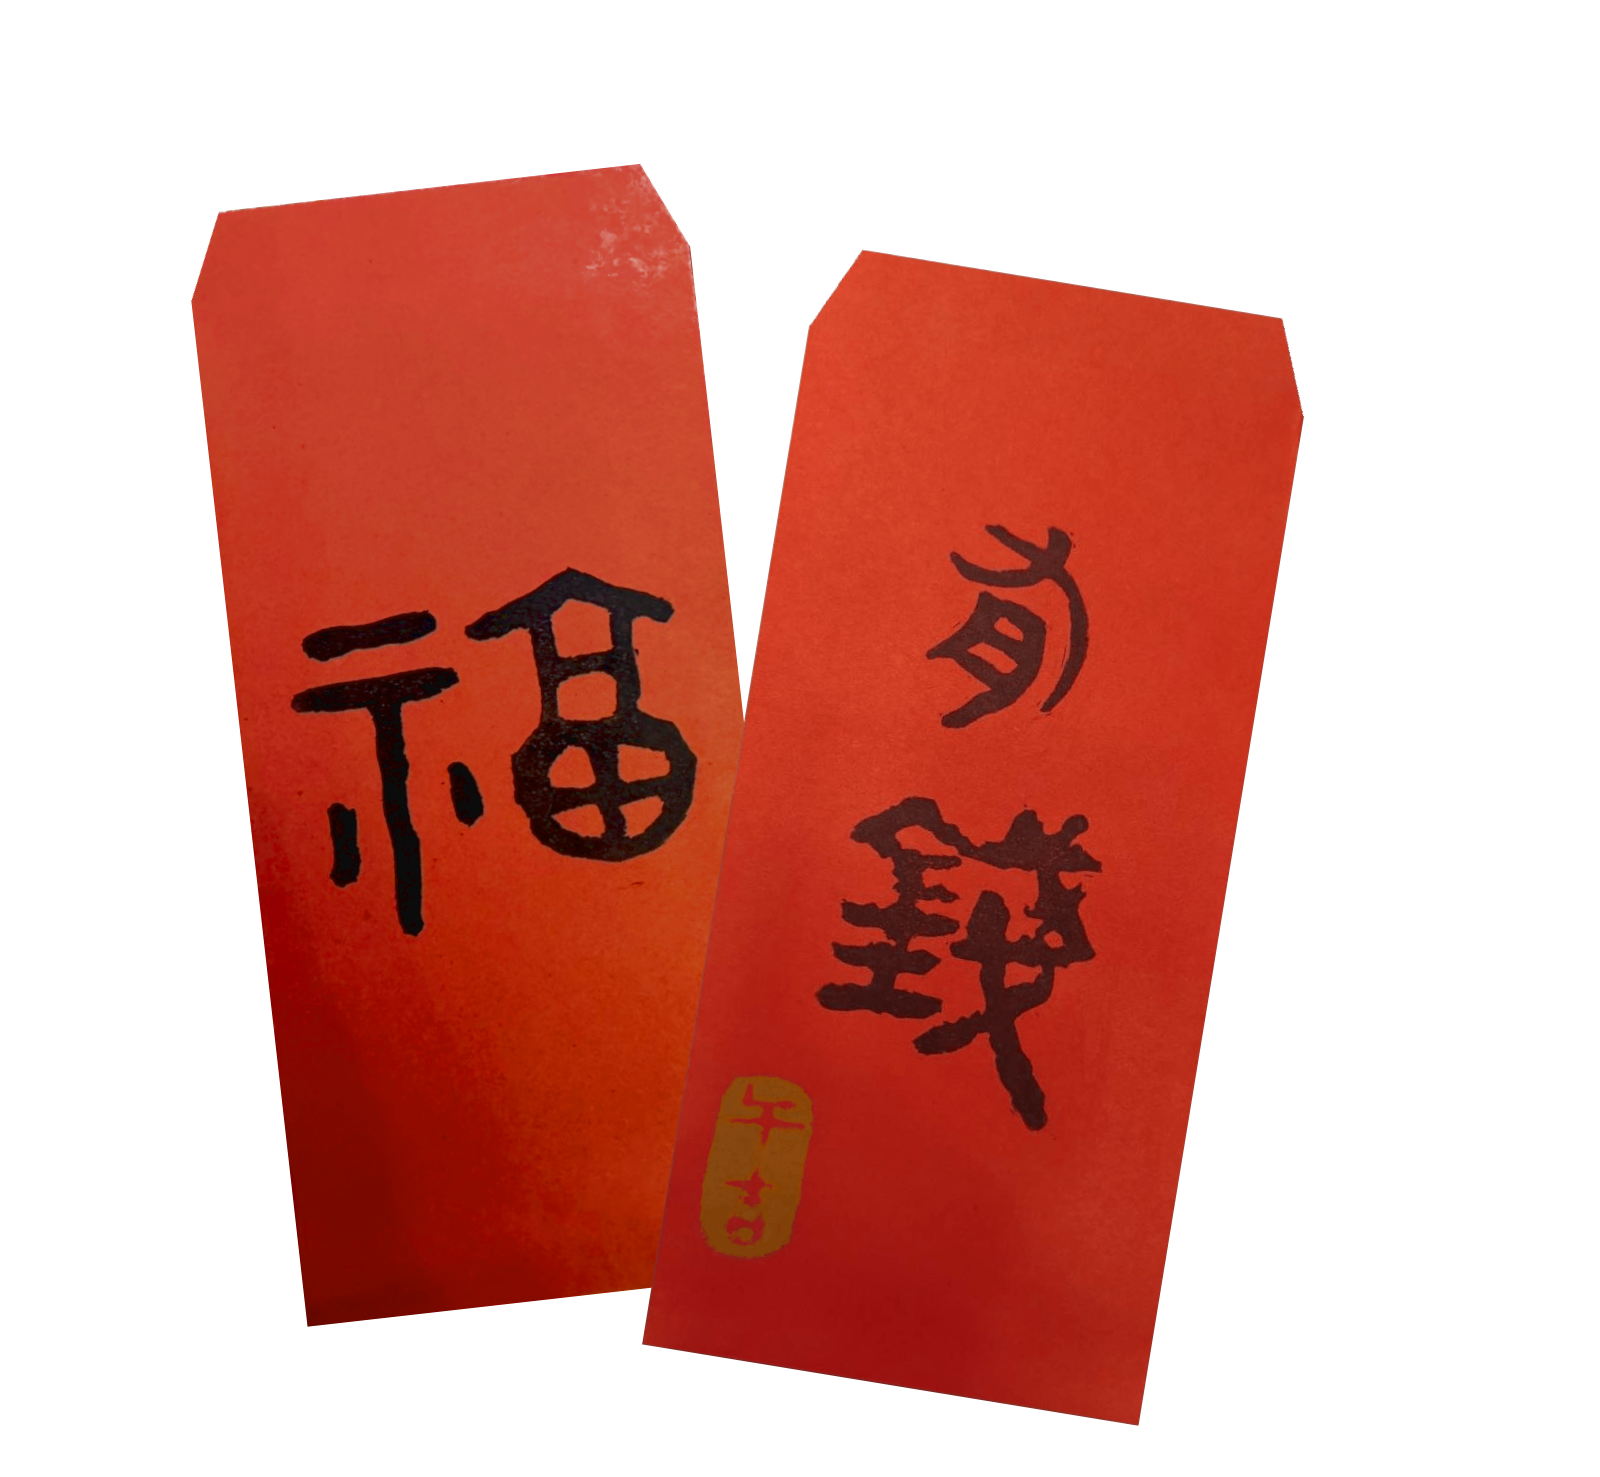
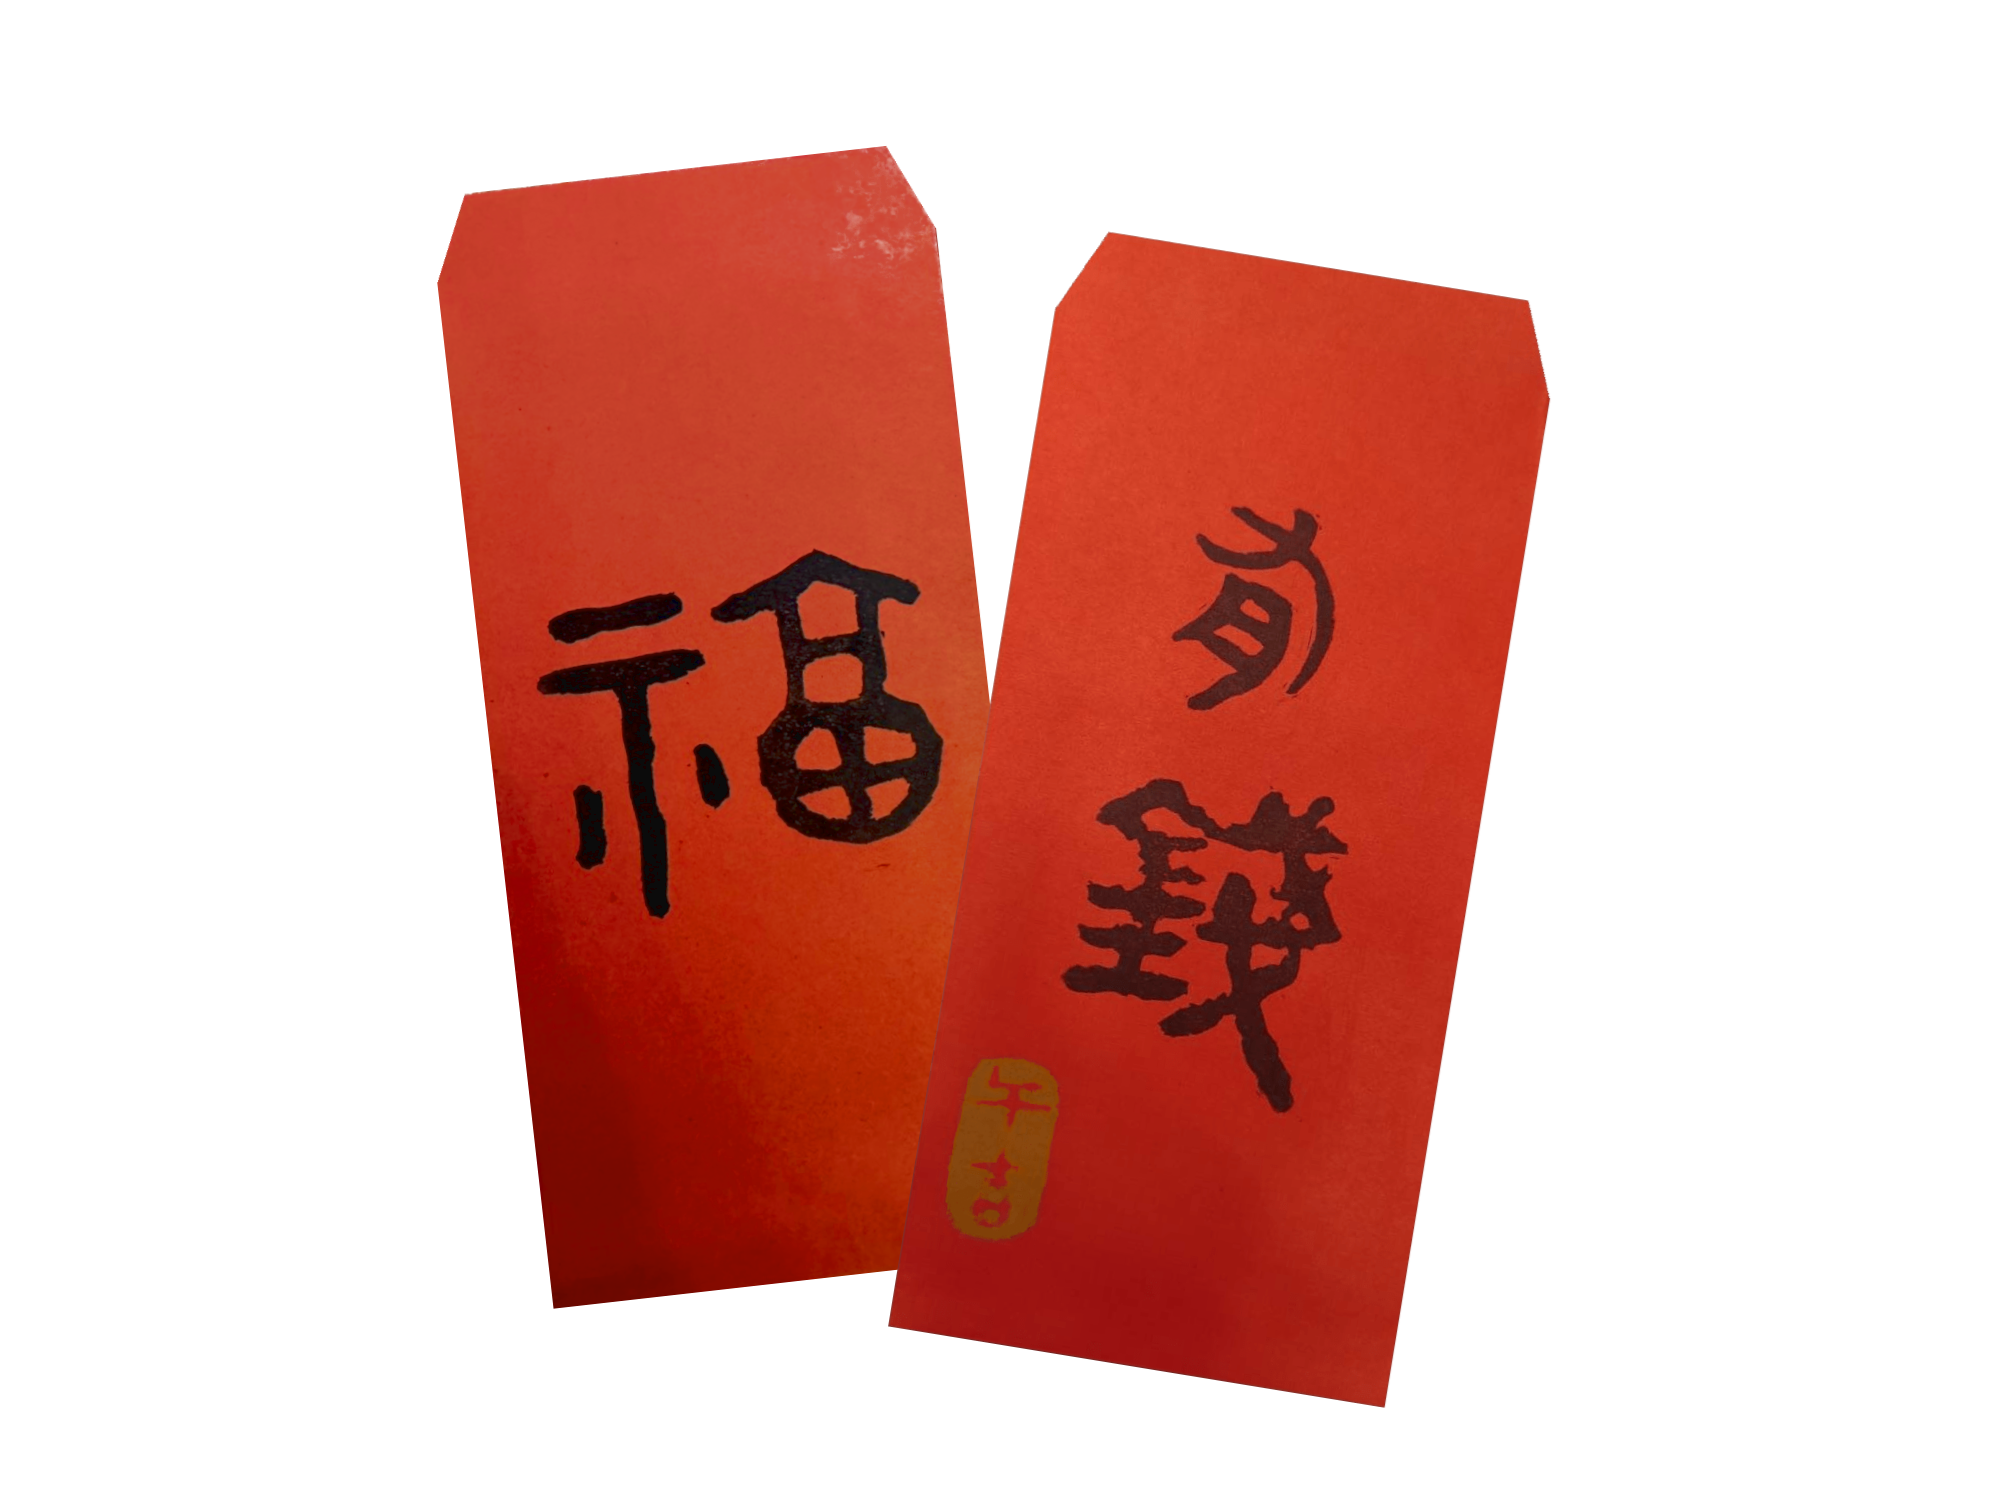
update

Changed region(s): [[0.0938, 0.0934, 0.8125, 0.9655], [0.5625, 0.3426, 0.6875, 0.4983]]

diff --git a/index.html b/index.html
@@ -280,13 +280,28 @@ h3 {
   to   { opacity: 1; }
 }
 
-.overlay-ad img {
+.ad-img-wrapper {
+  position: relative;
   width: 220px;
   max-width: 60vw;
-  border-radius: 18px;
   margin-bottom: 28px;
+}
+
+.overlay-ad .ad-img {
+  width: 100%;
+  border-radius: 18px;
   filter: drop-shadow(0 10px 28px rgba(139, 94, 60, 0.5)) brightness(1);
   animation: glow 0.5s ease-in-out infinite;
+  position: absolute;
+  top: 0;
+  left: 0;
+  opacity: 0;
+  transition: opacity 0.8s ease;
+}
+
+.overlay-ad .ad-img.active {
+  opacity: 1;
+  position: relative;
 }
 
 @keyframes glow {
@@ -332,7 +347,10 @@ h3 {
 
 <!-- 全畫面廣告蓋版 -->
 <div class="overlay-ad" id="overlayAd">
-  <img src="./image/紅包袋.png" alt="有錢有福紅包袋">
+  <div class="ad-img-wrapper">
+    <img src="./image/紅包袋.png" alt="有錢有福紅包袋" class="ad-img active">
+    <img src="./image/春聯方斗.png" alt="馬年春聯方斗" class="ad-img">
+  </div>
   <div class="ad-title">2/7任意消費就送紅包袋<br>有錢 有福 款式任選<br>滿$500再送馬年春聯方斗<br>送完為止</div>
   <button class="ad-close" id="adCloseBtn">開始逛逛</button>
 </div>
@@ -366,7 +384,17 @@ h3 {
 /* ========= 關閉廣告蓋版 ========= */
 document.getElementById("adCloseBtn").addEventListener("click", () => {
   document.getElementById("overlayAd").style.display = "none";
+  clearInterval(adRotateTimer);
 });
+
+/* ========= 廣告圖片輪播 ========= */
+const adImages = document.querySelectorAll(".overlay-ad .ad-img");
+let adIndex = 0;
+const adRotateTimer = setInterval(() => {
+  adImages[adIndex].classList.remove("active");
+  adIndex = (adIndex + 1) % adImages.length;
+  adImages[adIndex].classList.add("active");
+}, 2000);
 
 /* ========= 自動加上 openExternalBrowser 參數 ========= */
 (function() {
